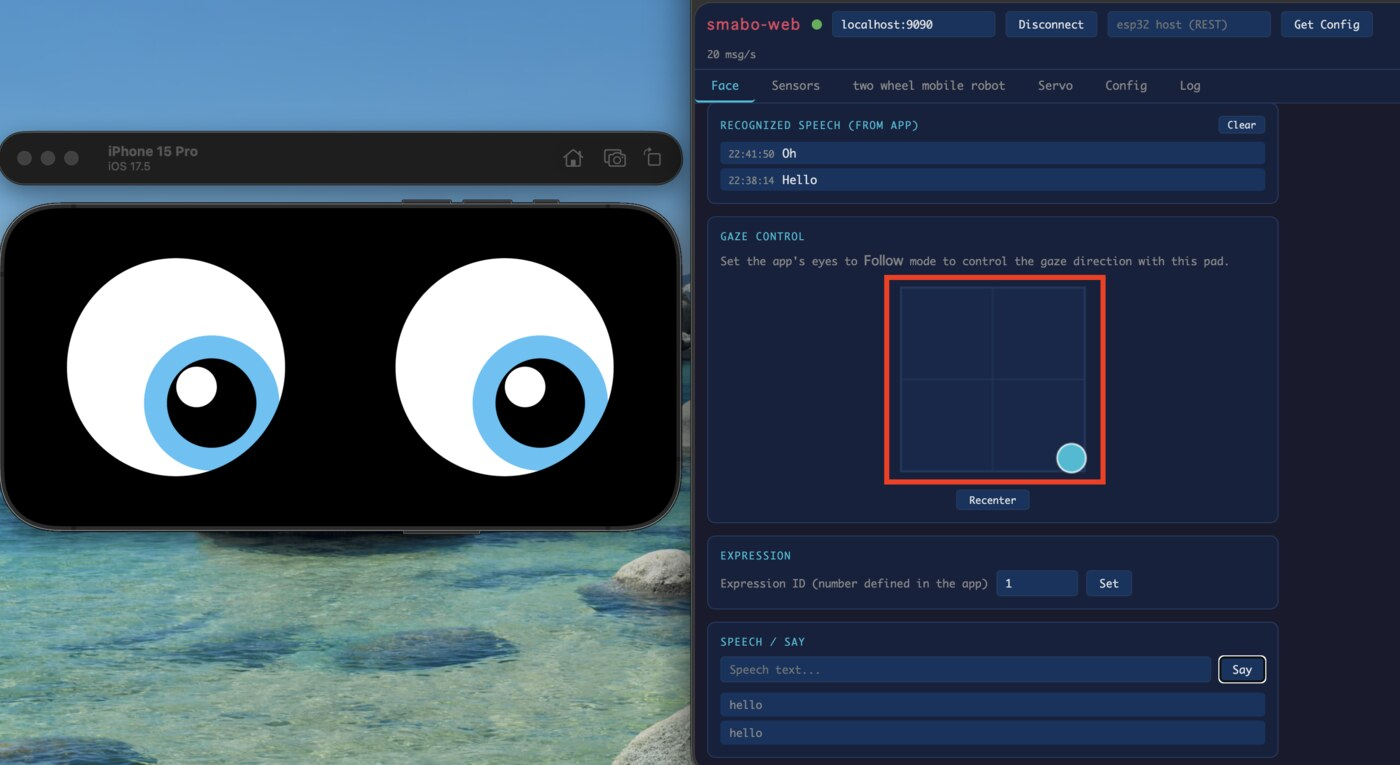
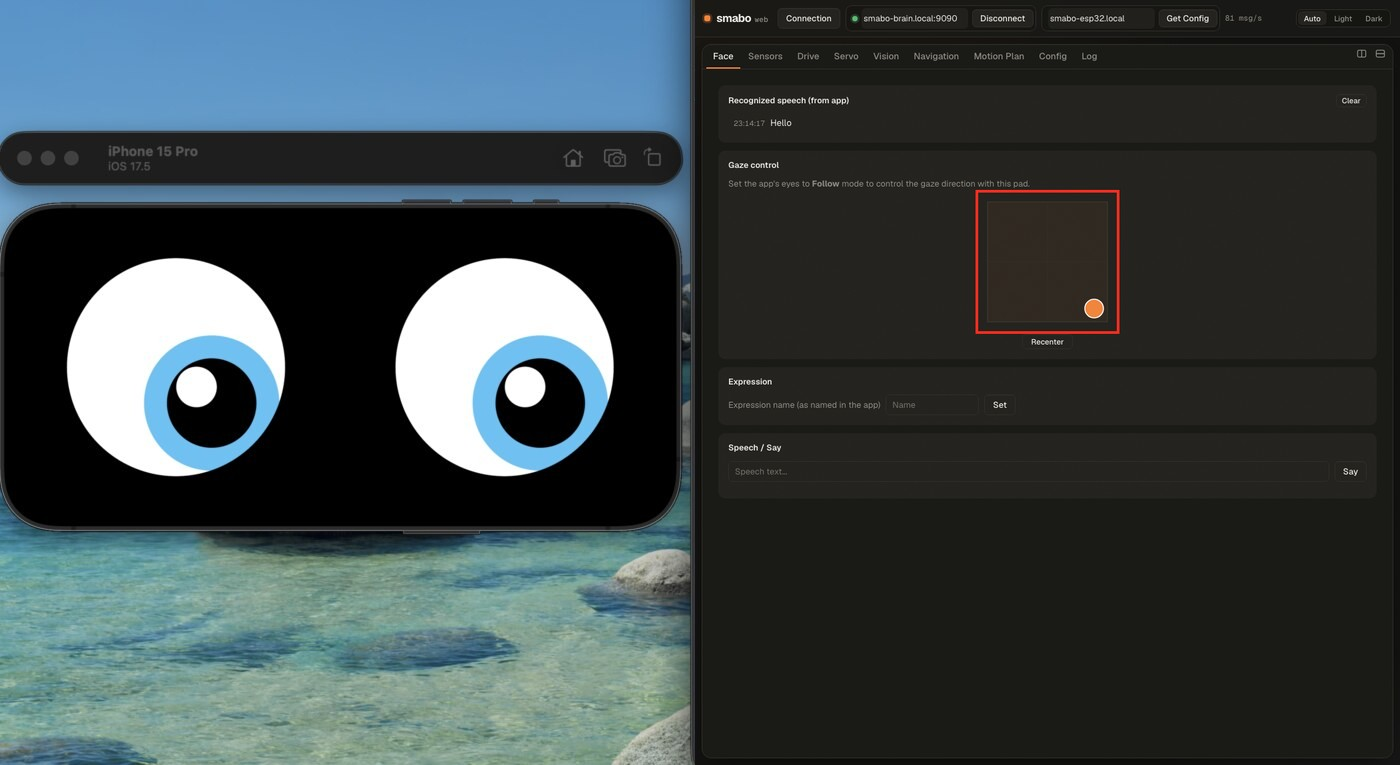
Update guides and design doc for the new smabo-web
Templates/panels become tabs, smabo-web screenshots retaken, the design
doc covers the settings relay and opt-in pairing, and mermaid diagrams
are refitted so they are no longer clipped.

diff --git a/astro/public/js/sysmap.js b/astro/public/js/sysmap.js
@@ -12,13 +12,13 @@
  * data-flows keys: from/to = node id (app|brain|esp32|web), transport = ws|webrtc|rest
  *
  * REST (settings) goes through the brain: smabo-web sends it to the brain's
- * /devices/esp32/… or /devices/app/… with its Bearer token, and the brain
- * passes it on to the device with the relay key (X-Smabo-Relay-Key). A paired
- * device refuses REST from anyone else. So a page's
+ * /devices/esp32/… or /devices/app/…, and the brain passes it on to the
+ * device (with --pairing, the web adds its Bearer token and the brain the
+ * relay key, X-Smabo-Relay-Key; a paired device refuses REST from anyone
+ * else). So a page's
  *   {"from":"web","to":"esp32","transport":"rest", ...}
  * is drawn as web → brain → esp32 (and web → app likewise), with the label on
- * both legs. (Only a brain started with --no-auth lets the web
- * talk to the devices directly; the diagram shows the normal, paired setup.)
+ * both legs.
  */
 (function () {
   "use strict";

diff --git a/astro/public/js/site.js b/astro/public/js/site.js
@@ -14,6 +14,19 @@
       mermaid.initialize({ startOnLoad: false, theme: 'neutral', securityLevel: 'loose', fontFamily: 'inherit' });
       return mermaid.run({ querySelector: 'pre.mermaid' });
     })
+    .then(() => {
+      // Mermaid sometimes sizes a flowchart's viewBox from a layout that
+      // differs from the drawn one, cutting off its bottom. Fit the viewBox
+      // to what was actually drawn.
+      const PAD = 8;
+      document.querySelectorAll('pre.mermaid svg').forEach((svg) => {
+        const b = svg.getBBox();
+        if (!b.width || !b.height) return;
+        const w = b.width + PAD * 2;
+        svg.setAttribute('viewBox', `${b.x - PAD} ${b.y - PAD} ${w} ${b.height + PAD * 2}`);
+        svg.style.maxWidth = `${w}px`;
+      });
+    })
     .catch((e) => console.error('Mermaid failed to load:', e));
 })();
 

diff --git a/astro/src/content/docs/guides/smabo-web.md b/astro/src/content/docs/guides/smabo-web.md
@@ -67,30 +67,6 @@ npm install
 
 各種プログラムの起動、通信が確認できればOKです。
 
-### テンプレートの選択
-
-smabo-webでは、ガイドごとに必要なパネルをまとめた「テンプレート」を選択して画面を切り替えます。
-
-画面左上のテンプレート名をクリックすると、
-
-![smabo-web左上のテンプレート名](/images/web_template_button.png)
-
-<br>
-
-テンプレート一覧が表示されるので、実施するガイドのテンプレートを選択してください（各ガイドのページにも、使用するテンプレート名を記載しています）。
-
-![smabo-webのテンプレート一覧](/images/web_template_picker.png)
-
-:::note[パネルの配置の変更]
-パネルの境目をドラッグするとサイズを変更でき、パネルのタイトルをドラッグすると配置を移動できます。また、パネル右上の「⋯」から、パネルの分割・変更・削除ができます。
-
-<br>
-
-変更した配置は、テンプレート一覧の「Save as My layout…」で保存でき、「Reset layout」で元の配置に戻せます。
-
-![パネル右上の「⋯」メニュー](/images/web_panel_menu.png)
-:::
-
 ## 次回
 
 次回は、以下ロードマップの

diff --git a/astro/src/content/docs/guides/imgproc.md b/astro/src/content/docs/guides/imgproc.md
@@ -38,13 +38,13 @@ description: "スマホのカメラ映像を smabo-brain で画像認識（ARマ
 
 「<a href="/guides/startup/" data-steps="smabo-brainの起動,smabo-webの起動,smabo-brain---smabo-webの接続,smabo-appの接続">こちらの起動手順</a>」の内容を実行してください。
 
-その後、smabo-webのテンプレート一覧から、テンプレート「画像処理」を選択してください（選択方法は「[テンプレートの選択](/guides/smabo-web/#テンプレートの選択)」を参照）。
+その後、smabo-webの「Vision」タブを開いてください。
 
 ### 画像認識
 
-smabo-webの「Vision」パネルにて画像認識に関する設定が可能で、「Detection」の「enabled」を有効化することで、画像認識機能を有効化できます。
+smabo-webの「Vision」タブにて画像認識に関する設定が可能で、「Detection」の「enabled」を有効化することで、画像認識機能を有効化できます。
 
-![smabo-webのVisionパネルで画像認識を有効化](/images/web_vision_detection.png)
+![smabo-webのVisionタブで画像認識を有効化](/images/web_vision_detection.png)
 
 <br>
 
